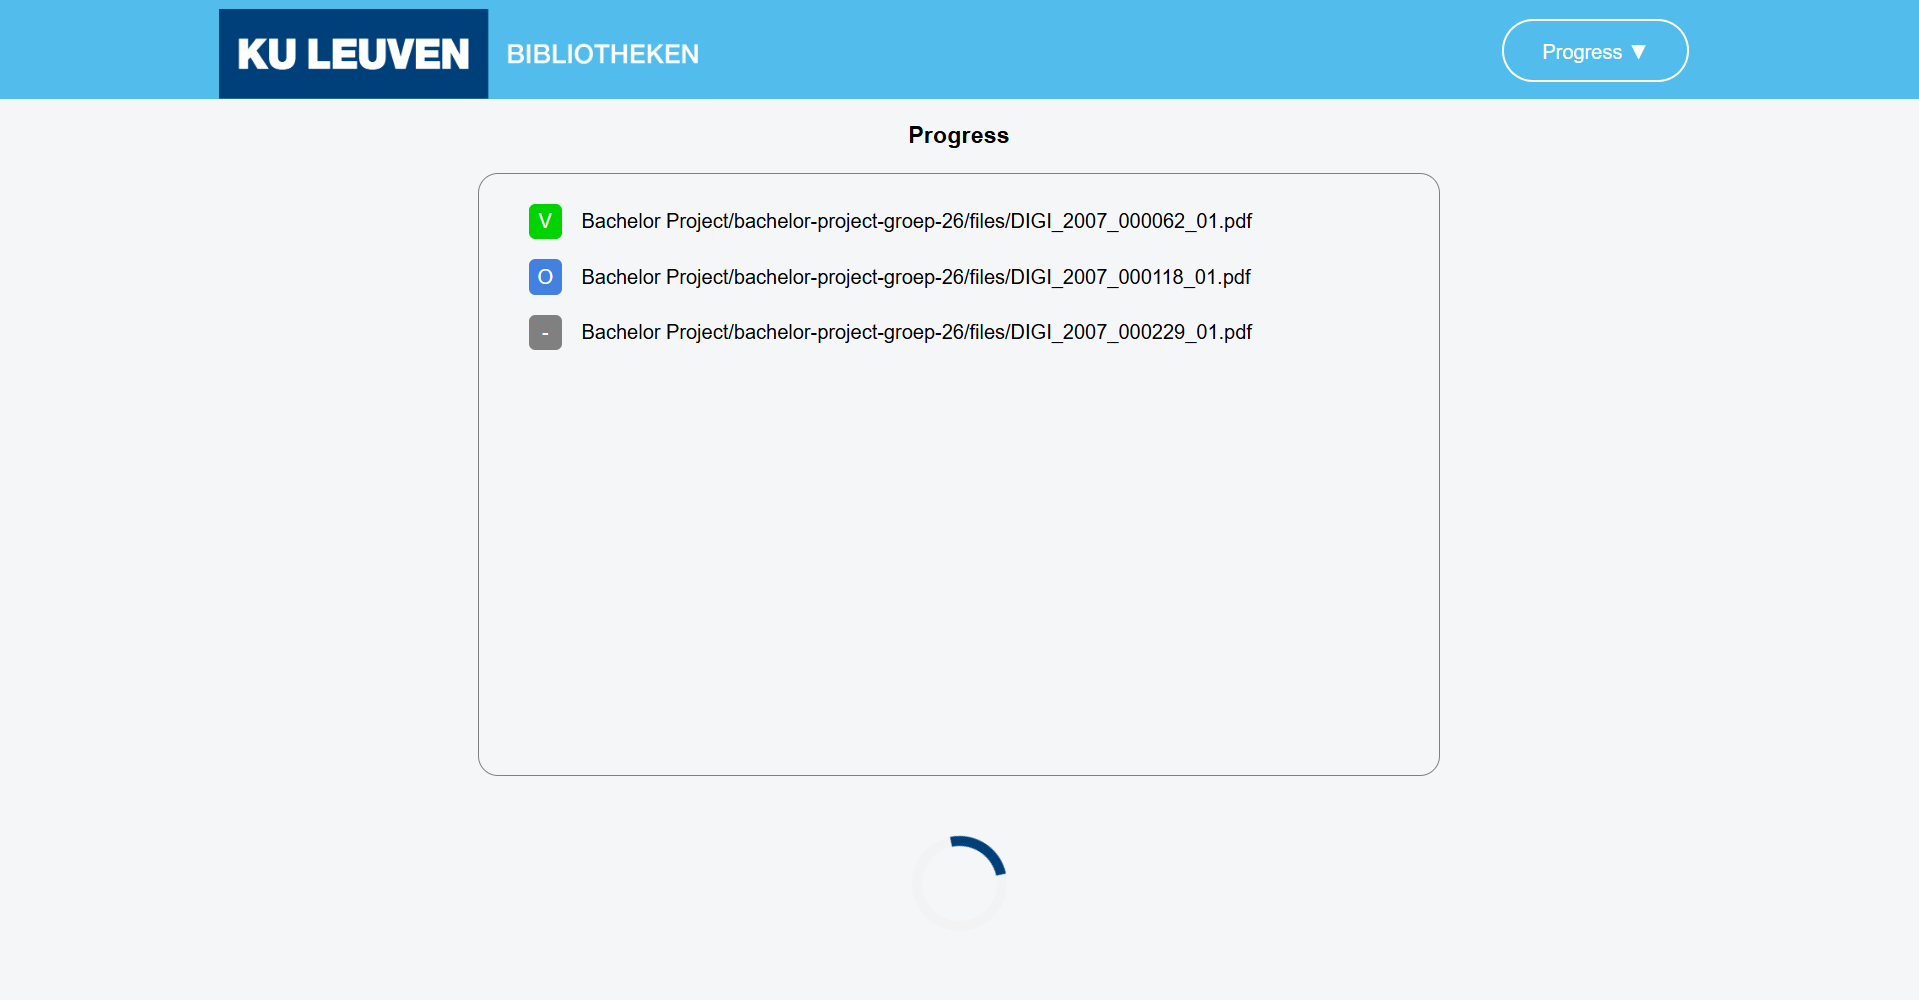
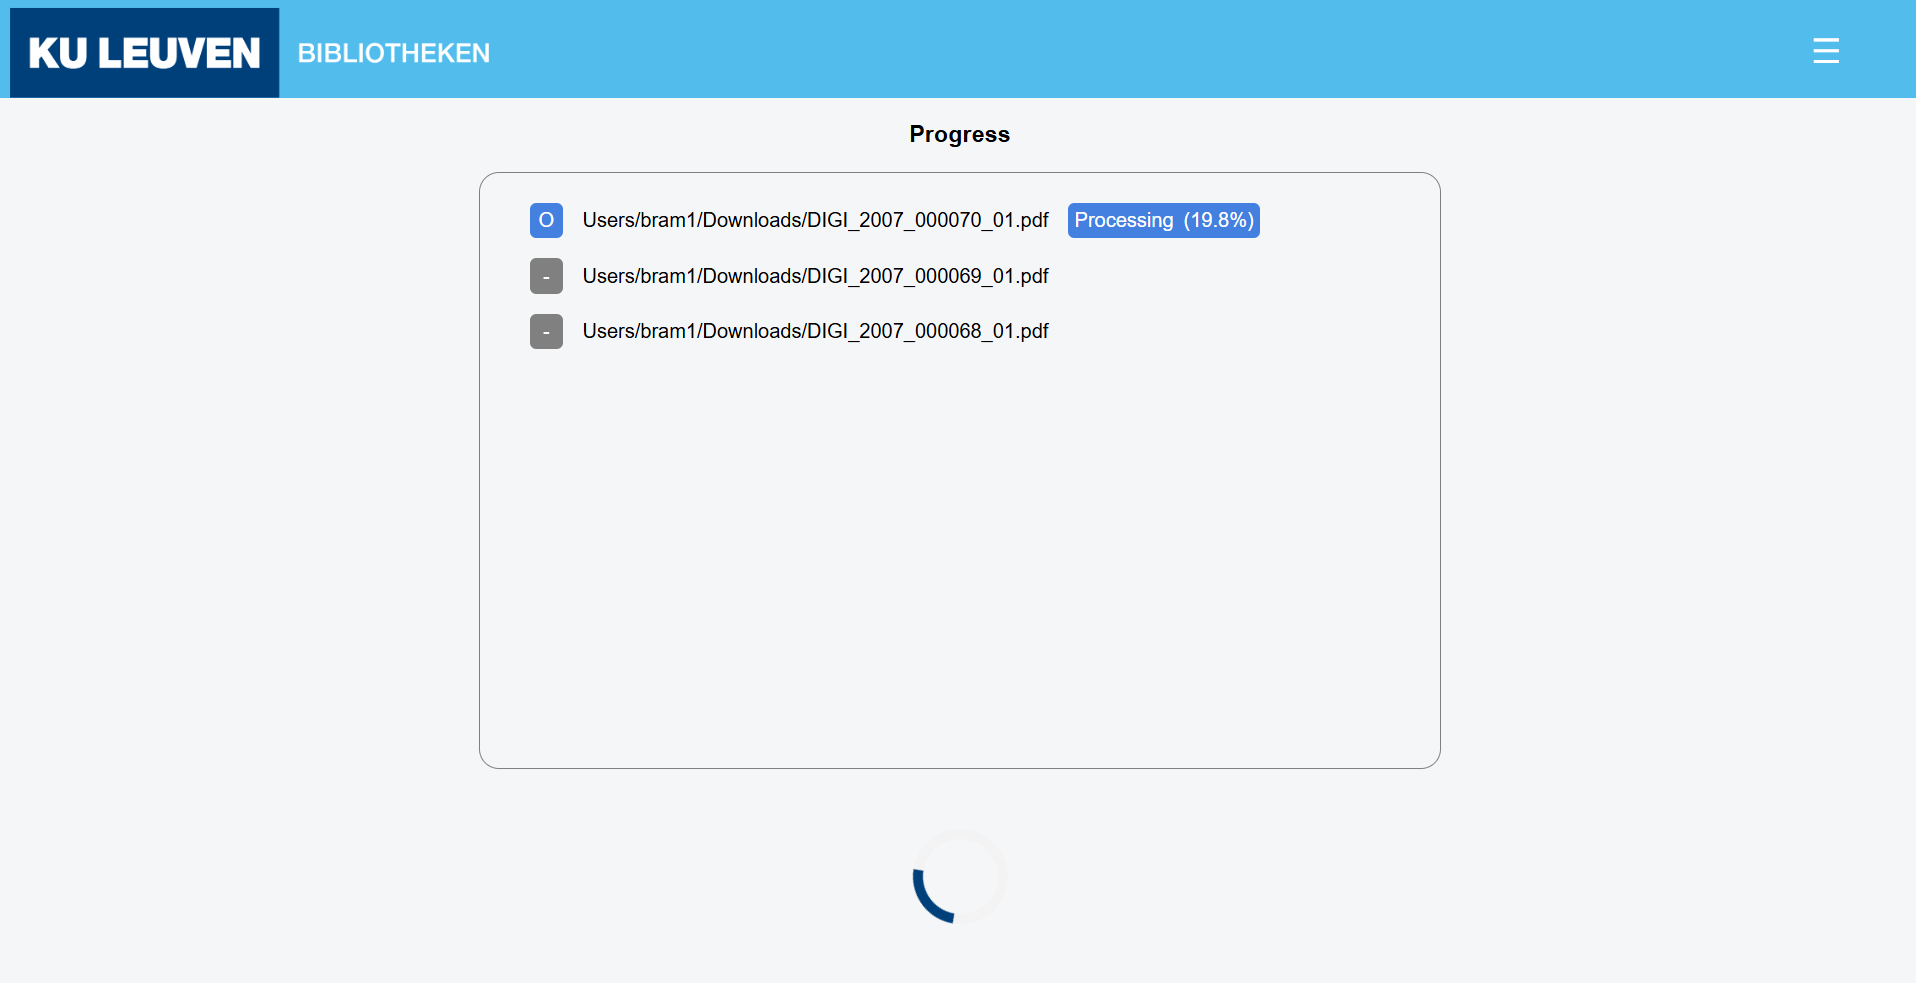
docs page is done

diff --git a/gui/docs.html b/gui/docs.html
@@ -38,12 +38,12 @@
           <li><a href="#intro">About this tool</a></li>
           <li><a href="#homepage">Homepage</a></li>
           <li><a href="#navigation">Navigation</a></li>
+          <li><a href="#projects">Projects page</a></li>
           <li><a href="#precheck">Precheck page</a></li>
           <li><a href="#progress">Process page</a></li>
           <li><a href="#last-run">Last Run page</a></li>
           <li><a href="#all-runs">All Runs page</a></li>
           <li><a href="#details">Details page</a></li>
-          <li><a href="#projects">Projects page</a></li>
         </ul>
       </div>
       <div class="content-container">
@@ -67,21 +67,49 @@
           <ol>
             <li>Quick navigation menu</li>
             <li>Precheck pdf - the actual tool</li>
-            <li>Project analysis</li>
+            <li>Documentation page (you are here)</li>
           </ol>
-          <img width="700" src="assets/img/image_homepage.png" alt="image homepage" />
+          <img width="700" src="assets/img/image_homepage.png" alt="Homepage" />
         </section>
         <hr />
-        <section id="navigation">
-          <h1>Navigation</h1>
+        <section id="navigation" class="horizontal-split">
+          <div>
+            <h1>Navigation</h1>
+            <p>
+              Through the navigation the user can navigate to the following
+              pages:
+            </p>
+            <ul>
+              <li><b>Precheck</b> - the actual precheck tool</li>
+              <li><b>Projects</b> - manage projects</li>
+              <li><b>Last Run</b> - the last run of checked documents</li>
+              <li><b>All Runs</b> - all runs of checked documents</li>
+              <li><b>Docs</b> - link to the documentation</li>
+            </ul>
+          </div>
+          <img width="200" src="assets/img/navigation_menu.png" alt="Navigation menu" />
+        </section>
+        <hr />
+        <section id="projects">
+          <h1>Projects</h1>
           <p>
-            Through the navigation the user can navigate to the following
-            pages:
+            On the projects page, a user can customise and manage their projects:
           </p>
           <ul>
-            <li><b>Precheck</b> - the actual precheck tool</li>
-            <li><b>Last Run</b> - the last run of checked documents</li>
-            <li><b>All Runs</b> - all runs of checked documents</li>
+            <li>
+              Gives an overview of all created projects.
+            </li>
+            <li>
+              A new project can be created by clicking on the plus button and entering a name and export path.</br>
+              An example can be seen below.</br></br>
+            </li>
+            <img width="700" src="assets/img/projects.gif" alt="image precheck page" />
+            <li>
+              When a project is clicked, the user is navigated to a specific page
+              for this project. Here, an overview is shown of all pdf's that have been scanned
+              for this specific project. The project can also be edited and deleted on this page.</br></br>
+            </li>
+            <img width="700" src="assets/img/project_page.gif" alt="image precheck page" />
           </ul>
         </section>
         <hr />
@@ -109,7 +137,7 @@
               "Check".
             </li>
           </ol>
-          <img width="700" src="assets/img/image_precheck.png" alt="image precheck page" />
+          <img width="700" src="assets/img/precheck.gif" alt="image precheck page" />
         </section>
         <hr />
         <section id="progress">
@@ -118,7 +146,7 @@
             The progress page shows the progress of the tool checking the
             selected files.
           </p>
-          <img width="700" src="assets/img/image_progress.png" alt="image progress" />
+          <img width="700" src="assets/img/image_progress.png" alt="Progress" />
           <p>Each item of the list shows it's status:</p>
           <ul class="progress-icon-list">
             <li class="queue">
@@ -134,15 +162,23 @@
             </li>
           </ul>
           <p>
+            Next to the file name, there is a blue box displayed with step the program is currently on for that file. 
+            When it is processing the file, it also shows a completion percentage. The next and last step for a file is to compress it. <br/>
+            An example of how it looks during this step is displayed in the image below.
+          </p>
+          <img width="400" src="assets/img/image_progress_compressing.png" alt="Progress compressing" />
+          <p>
             After all the files have been processed, the user can navigate to
             the overview to see al the files that have been checked.
           </p>
-          <img src="assets/img/image_progress_finish.png" alt="" />
+          <img width="700" src="assets/img/image_progress_finish.png" alt="Progress finished" />
         </section>
         <hr />
         <section id="last-run">
           <h1>Last Run page</h1>
-          <p></p>
+          <p>The last run page shows you an overview of all files that are checked in the last run of this session.</p>
+          <p>If no run has been done yet in this session, a message will be shown like below.</p>
+          <img width="700" src="assets/img/lastrun.png" alt="Last run" />
         </section>
         <hr />
         <section id="all-runs">
@@ -156,12 +192,14 @@
             <li><b>Name</b> - name of the file</li>
             <li><b>Errors</b> - the amount of errors found</li>
             <li>
-              <b>Status</b> - gives the status if a file has been manually
+              <b>Checked</b> - gives the status if a file has been manually
               checked or not
             </li>
             <li><b>Date</b> - date of check execution</li>
             <li><b>Project</b> - to which project a file belongs to</li>
           </ul>
+          <p>You can filter by Name or Project by typing something in the text field below the title.</p>
+          <img width="700" src="assets/img/allruns.png" alt="All runs" />
         </section>
         <hr />
         <section id="details">
@@ -192,31 +230,18 @@
             <li><strong>Level 2:</strong> shows warnings and info logs</li>
             <li><strong>Level 3:</strong> shows all logs</li>
           </ul>
+          <p>The level can be changed in the bottom left by pressing the wanted log level.</p>
+          <img width="300" src="assets/img/log_level.gif" alt="Log level" />
+          <p>
+            When the document is fully loaded you can press one of the messages in the log box to go to this page.
+          </p>
+          <img width="700" src="assets/img/press_log.gif" alt="Log level" />
           <p>
             When a file is manually checked, the user can click the "Manually
             check" button and the file will be marked as checked.
           </p>
+          <img width="700" src="assets/img/manual_check.gif" alt="Log level" />
         </section>
-        <section id="projects">
-          <h1>Projects</h1>
-          <p>
-            On the projects page, a user can customise and manage their projects:
-          </p>
-          <ul>
-            <li>
-              Gives an overview of all created projects. A new
-              project can be added by giving a name and export path and
-              pressing the submit button.
-            </li>
-            <li>
-              When a project is clicked, the user is navigated to the details page
-              of this project. Here, an overview is shown of all pdf's that have been scanned
-              for this specific project. The project can also be edited and deleted on this page.
-            </li>
-          </ul>
-
-        </section>
-        <hr />
       </div>
     </div>
   </main>

diff --git a/gui/style/docs.css b/gui/style/docs.css
@@ -24,6 +24,10 @@ header {
   }
 }
 
+p {
+  max-width: 80%;
+}
+
 .content-wrapper {
   display: flex;
   flex-direction: row;
@@ -43,6 +47,7 @@ header {
 }
 
 .content-table ul {
+  width: 150px;
   list-style: none;
   padding-left: 0;
 }
@@ -65,13 +70,21 @@ header {
 }
 
 .content-container {
-  margin-top: 100px;
+  margin-top: 70px;
   margin-left: 300px;
+  margin-bottom: 40%;
   width: 100%;
 }
 
 .progress-icon-list li {
   margin: 5px 0;
+}
+
+.horizontal-split {
+  display: flex;
+  flex-direction: row;
+  justify-content: flex-start;
+  gap: 5rem;
 }
 
 .queue,
@@ -98,17 +111,17 @@ header {
 }
 
 .queue::before {
-  background-image: url("/gui/assets/img/image_file_queue.png");
+  background-image: url("../assets/img/image_file_queue.png");
 }
 
 .processing::before {
-  background-image: url("/gui/assets/img/image_file_processing.png");
+  background-image: url("../assets/img/image_file_processing.png");
 }
 
 .checked::before {
-  background-image: url("/gui/assets/img/image_file_checked.png");
+  background-image: url("../assets/img/image_file_checked.png");
 }
 
 .error::before {
-  background-image: url("/gui/assets/img/image_file_error.png");
+  background-image: url("../assets/img/image_file_error.png");
 }
